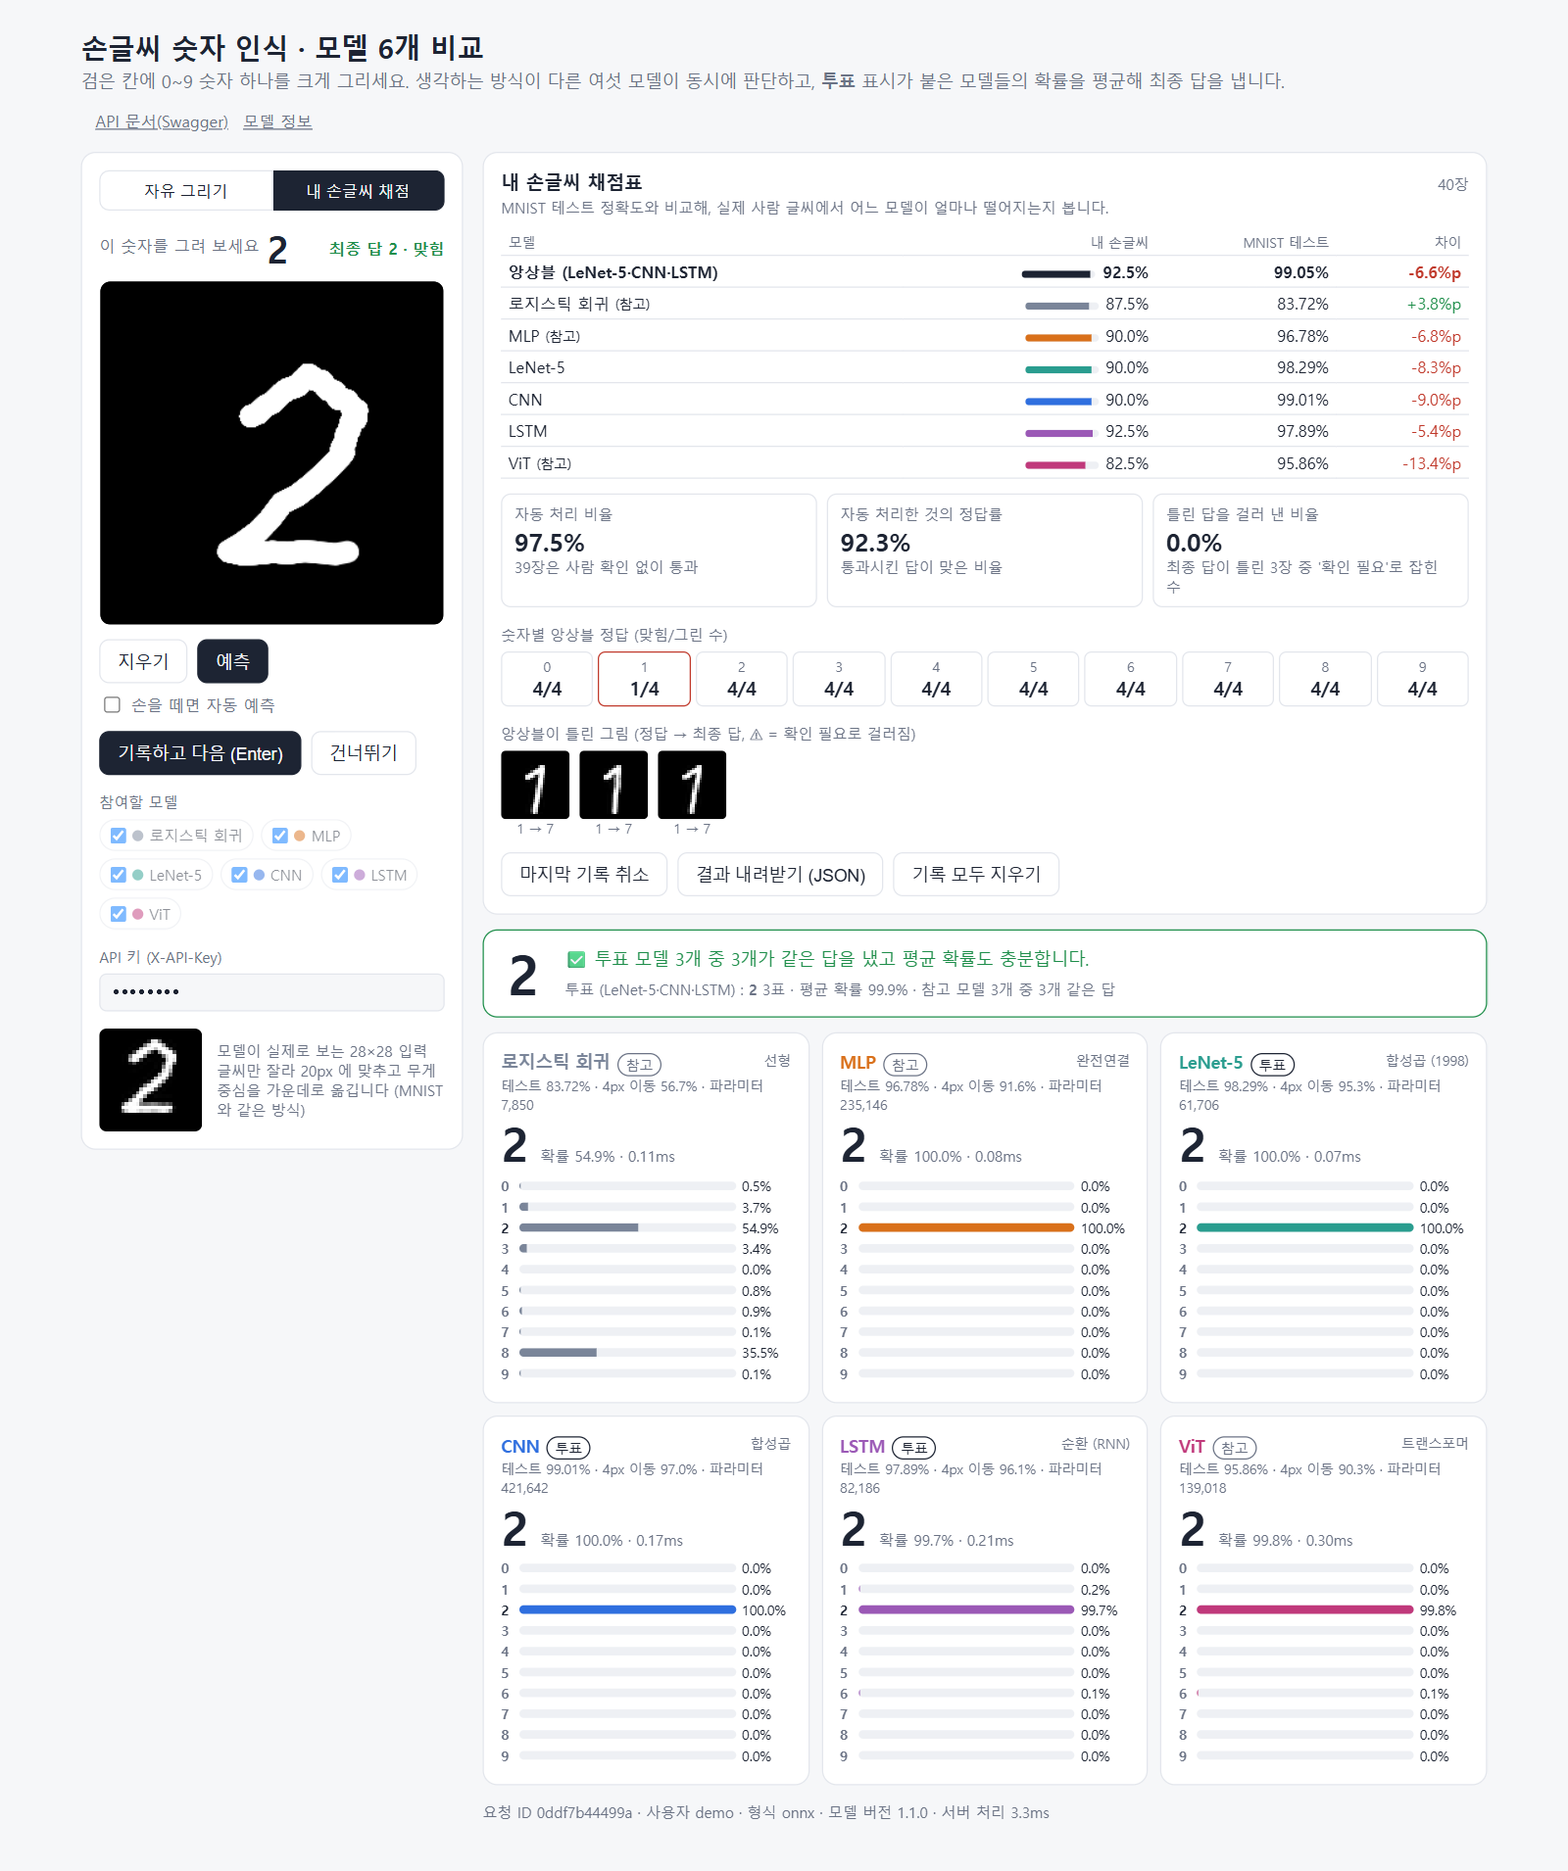
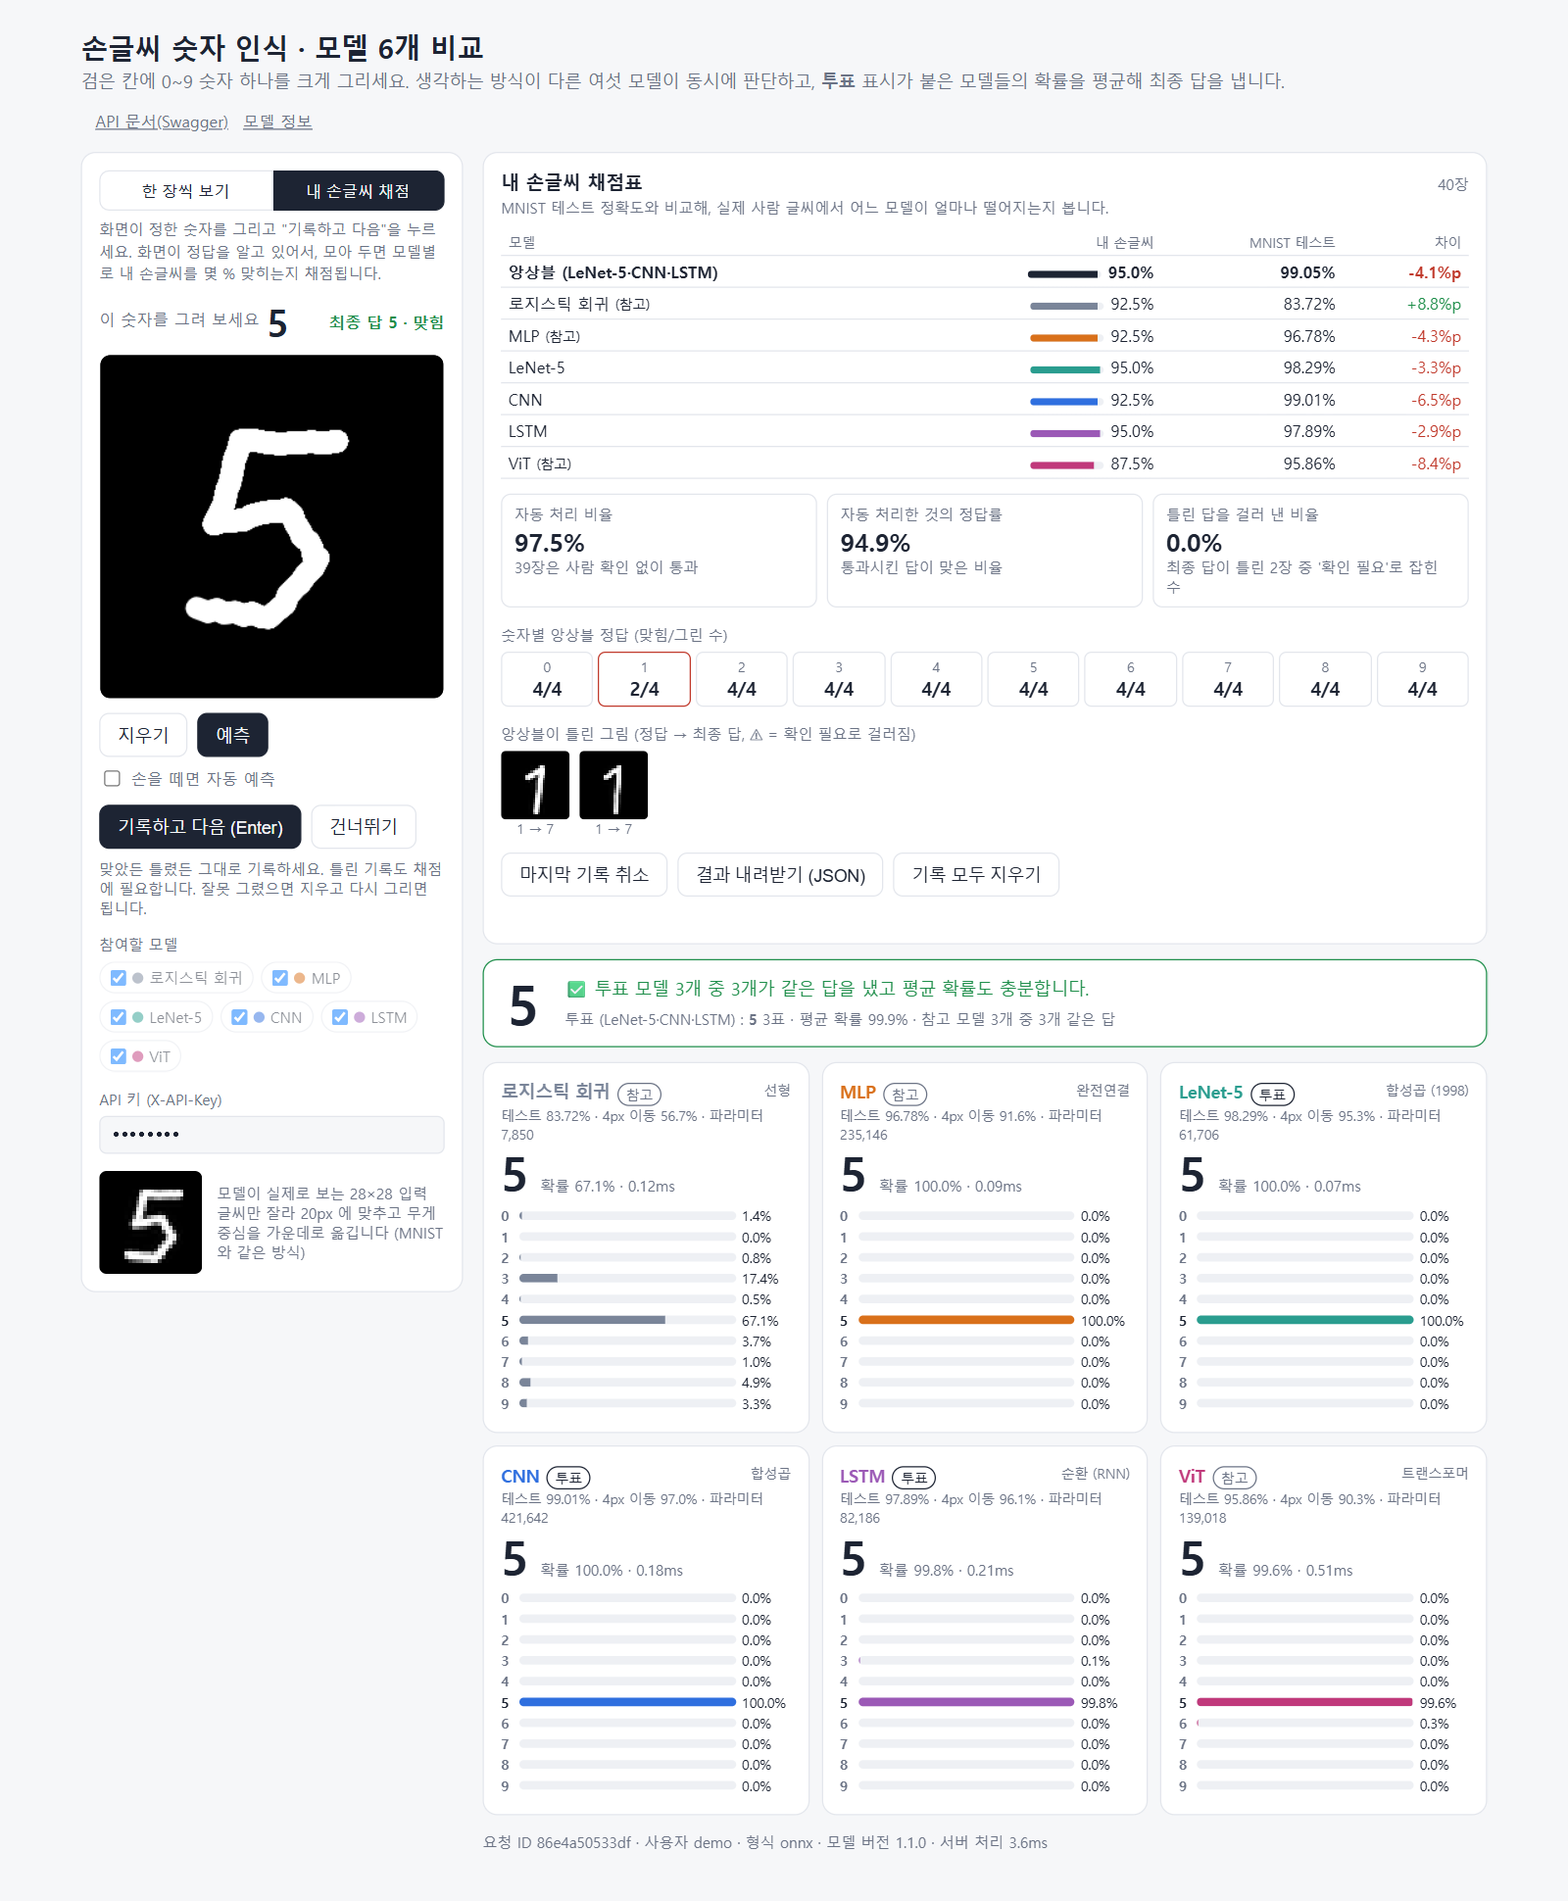
Serving02: 그림판 모드 표시 오류 수정, 채점표 버튼 개선
- 채점 모드 요소가 '한 장씩 보기'에도 보이던 문제 수정 (display:flex 가 hidden 을 덮어씀)
- 모드 이름을 '한 장씩 보기 / 내 손글씨 채점'으로 바꾸고 모드별 설명 추가
- 채점표 버튼 : 기록이 없으면 비활성화, 동작 결과 메시지 표시
- 모두 지우기는 confirm() 대신 두 번 누르기 (내장 브라우저에서도 동작)
- 내려받기 링크를 문서에 붙여 클릭하고 URL 해제를 늦춤

diff --git a/Serving/Serving02/app/static/index.html b/Serving/Serving02/app/static/index.html
@@ -60,7 +60,13 @@
   .bar b { color:var(--muted); font-weight:600; } .bar.top b { color:var(--ink); }
   footer { margin-top:14px; font-size:12px; color:var(--muted); }
   /* 채점 모드 */
-  .modes { display:flex; margin-bottom:10px; }
+  [hidden] { display:none !important; }   /* .row·.target 의 display:flex 가 hidden 을 덮어쓰지 않게 */
+  .modes { display:flex; margin-bottom:6px; }
+  .mode-desc { font-size:12px; color:var(--muted); margin:0 0 10px; line-height:1.5; }
+  .hint { font-size:12px; color:var(--muted); }
+  .sc-msg { font-size:12px; margin-top:8px; min-height:16px; color:var(--muted); }
+  .sc-msg.ok { color:var(--ok); } .sc-msg.warn { color:var(--warn); }
+  button.danger { border-color:var(--err); color:var(--err); }
   .modes button { flex:1; border-radius:0; font-size:13px; padding:7px 8px; }
   .modes button:first-child { border-radius:8px 0 0 8px; } .modes button:last-child { border-radius:0 8px 8px 0; border-left:0; }
   .modes button.on { background:var(--ink); color:var(--bg); border-color:var(--ink); }
@@ -106,7 +112,8 @@
   </header>
   <div class="grid">
     <section class="card">
-      <div class="modes" role="tablist"><button id="m-free" class="on" role="tab">자유 그리기</button><button id="m-score" role="tab">내 손글씨 채점</button></div>
+      <div class="modes" role="tablist"><button id="m-free" class="on" role="tab">한 장씩 보기</button><button id="m-score" role="tab">내 손글씨 채점</button></div>
+      <p class="mode-desc" id="mode-desc"></p>
       <div class="target" id="target" hidden><span>이 숫자를 그려 보세요<b id="tdigit">–</b></span><span class="hit" id="thit"></span></div>
       <canvas id="pad" width="280" height="280" aria-label="숫자를 그리는 칸"></canvas>
       <div class="row">
@@ -117,6 +124,7 @@
       <div class="row" id="score-ctrl" hidden>
         <button id="rec" class="primary" disabled>기록하고 다음 (Enter)</button>
         <button id="skip">건너뛰기</button>
+        <span class="hint" id="rec-hint">숫자를 그리면 예측 결과가 나온 뒤 기록할 수 있습니다.</span>
       </div>
       <div class="section-title">참여할 모델</div>
       <div class="chips" id="chips"></div>
@@ -135,6 +143,7 @@
           <button id="sc-export">결과 내려받기 (JSON)</button>
           <button id="sc-reset">기록 모두 지우기</button>
         </div>
+        <div class="sc-msg" id="sc-msg" role="status"></div>
       </div>
       <div class="verdict" id="verdict"><div class="final" id="final">–</div><div class="msg" id="vmsg">숫자를 그리면 결과가 여기에 나옵니다.</div><div class="votes" id="votes">&nbsp;</div></div>
       <div class="models" id="models"></div>
@@ -147,13 +156,17 @@ const $ = id => document.getElementById(id);
 const pad = $('pad'), ctx = pad.getContext('2d');
 let MODELS = [], INFO = {}, MEMBERS = [], ENS = null, drawing = false, dirty = false, busy = false, cfg = { review_threshold: 0.7, min_agreement: 0.66 };
 let MODE = 'free', target = null, bag = [], last = null, REC = [];   // 채점 모드 상태
+const REC_IDLE = '숫자를 그리면 예측 결과가 나온 뒤 기록할 수 있습니다.';
+const MODE_DESC = {
+  free:  '숫자(0~9)를 아무거나 하나 그리면 여섯 모델이 각각 어떻게 판단했는지 자세히 보여 줍니다. 정답을 모르므로 기록은 남지 않습니다.',
+  score: '화면이 정한 숫자를 그리고 "기록하고 다음"을 누르세요. 화면이 정답을 알고 있어서, 모아 두면 모델별로 내 손글씨를 몇 % 맞히는지 채점됩니다.' };
 
 function resetPad(){ ctx.fillStyle = '#000'; ctx.fillRect(0, 0, pad.width, pad.height);
   ctx.lineCap = 'round'; ctx.lineJoin = 'round'; ctx.strokeStyle = '#fff'; ctx.lineWidth = 18; }
 resetPad();
 function pos(e){ const r = pad.getBoundingClientRect(); return [(e.clientX - r.left) * pad.width / r.width, (e.clientY - r.top) * pad.height / r.height]; }
 pad.addEventListener('pointerdown', e => { drawing = true; dirty = true; pad.setPointerCapture(e.pointerId);
-  if (MODE === 'score') { last = null; $('rec').disabled = true; $('thit').textContent = ''; }   // 고쳐 그리는 중엔 이전 결과를 기록하지 않음
+  if (MODE === 'score') { last = null; $('rec').disabled = true; $('thit').textContent = ''; $('rec-hint').textContent = REC_IDLE; }   // 고쳐 그리는 중엔 이전 결과를 기록하지 않음
   const [x, y] = pos(e); ctx.beginPath(); ctx.moveTo(x, y); ctx.lineTo(x + 0.1, y); ctx.stroke(); });
 pad.addEventListener('pointermove', e => { if (!drawing) return; const [x, y] = pos(e); ctx.lineTo(x, y); ctx.stroke(); });
 ['pointerup', 'pointercancel'].forEach(t => pad.addEventListener(t, () => { if (!drawing) return; drawing = false; if ($('auto').checked) predict(); }));
@@ -176,7 +189,7 @@ function clearCard(id){ $('pred-' + id).textContent = '–'; $('conf-' + id).inn
   for (let i = 0; i < 10; i++) { $(`f-${id}-${i}`).style.width = '0'; $(`p-${id}-${i}`).textContent = '0.0%'; $(`row-${id}-${i}`).classList.remove('top'); } }
 function clearAll(){ resetPad(); dirty = false; $('prev').hidden = true; $('ph').hidden = false; MODELS.forEach(clearCard);
   setVerdict('', '–', '숫자를 그리면 결과가 여기에 나옵니다.'); $('foot').textContent = '';
-  last = null; $('rec').disabled = true; $('thit').textContent = ''; }
+  last = null; $('rec').disabled = true; $('thit').textContent = ''; $('rec-hint').textContent = REC_IDLE; }
 $('clear').onclick = clearAll;
 $('go').onclick = predict;
 $('apikey').addEventListener('change', () => { try { localStorage.setItem('mnist_api_key', $('apikey').value); } catch (e) {} });
@@ -213,6 +226,7 @@ async function predict(){
     else setVerdict('warn', e.pred, `⚠ 평균 확률이 ${(cfg.review_threshold * 100).toFixed(0)}% 미만입니다. 사람이 확인할 대상입니다.`, votes);
     $('foot').textContent = `요청 ID ${d.request_id} · 사용자 ${d.user} · 형식 ${d.backend} · 모델 버전 ${d.model_version} · 서버 처리 ${r.headers.get('X-Process-Time-ms')}ms`;
     if (MODE === 'score') { last = d; $('rec').disabled = false;
+      $('rec-hint').textContent = '맞았든 틀렸든 그대로 기록하세요. 틀린 기록도 채점에 필요합니다. 잘못 그렸으면 지우고 다시 그리면 됩니다.';
       const hit = e.pred === target; $('thit').className = 'hit ' + (hit ? 'ok' : 'no');
       $('thit').textContent = `최종 답 ${e.pred} · ${hit ? '맞힘' : '틀림'}${d.needs_review ? ' · 확인 필요' : ''}`; }
   } catch (err) { setVerdict('err', '!', '🔌 서버에 연결할 수 없습니다.'); }
@@ -225,6 +239,7 @@ async function predict(){
   try { const m = await (await fetch('/v1/models')).json(); MODELS = m.enabled; INFO = m.models; MEMBERS = m.ensemble_members || []; ENS = m.ensemble; buildModels(); }
   catch (e) { setVerdict('err', '!', '🔌 모델 목록을 가져오지 못했습니다.'); }
   REC = loadRecords();
+  $('mode-desc').textContent = MODE_DESC.free;
   if (location.hash === '#score') setMode('score');
 })();
 
@@ -236,7 +251,7 @@ function loadRecords(){ try { return JSON.parse(localStorage.getItem(STORE)) || 
 function saveRecords(){ try { localStorage.setItem(STORE, JSON.stringify(REC)); } catch (e) {} }
 
 function setMode(mode){
-  MODE = mode; const s = mode === 'score';
+  MODE = mode; const s = mode === 'score'; $('mode-desc').textContent = MODE_DESC[mode];
   $('m-free').classList.toggle('on', !s); $('m-score').classList.toggle('on', s);
   $('target').hidden = $('score-ctrl').hidden = $('scorecard').hidden = !s;
   $('chips').classList.toggle('locked', s);
@@ -262,12 +277,24 @@ function record(){
 $('rec').onclick = record;
 $('skip').onclick = () => { clearAll(); nextTarget(); };
 document.addEventListener('keydown', e => { if (e.key === 'Enter' && MODE === 'score' && !$('rec').disabled) { e.preventDefault(); record(); } });
-$('sc-undo').onclick = () => { if (REC.length) { REC.pop(); saveRecords(); renderScore(); } };
-$('sc-reset').onclick = () => { if (REC.length && confirm(`기록 ${REC.length}장을 모두 지울까요?`)) { REC = []; saveRecords(); renderScore(); } };
+function scMsg(text, cls = ''){ $('sc-msg').className = 'sc-msg ' + cls; $('sc-msg').textContent = text; }
+$('sc-undo').onclick = () => {
+  if (!REC.length) return scMsg('취소할 기록이 없습니다.', 'warn');
+  const r = REC.pop(); saveRecords(); renderScore(); scMsg(`마지막 기록(정답 ${r.label} → 최종 답 ${r.ensemble})을 취소했습니다. 남은 기록 ${REC.length}장.`, 'ok'); };
+// 브라우저 확인 창(confirm)은 VS Code 내장 브라우저 등에서 막히므로, 같은 버튼을 한 번 더 누르게 합니다
+let resetArmed = null;
+$('sc-reset').onclick = () => {
+  if (!REC.length) return scMsg('지울 기록이 없습니다.', 'warn');
+  if (!resetArmed) {
+    $('sc-reset').textContent = `정말 ${REC.length}장을 지울까요? 한 번 더 누르세요`; $('sc-reset').classList.add('danger');
+    resetArmed = setTimeout(disarmReset, 4000); return; }
+  disarmReset(); const n = REC.length; REC = []; saveRecords(); renderScore(); scMsg(`기록 ${n}장을 모두 지웠습니다.`, 'ok'); };
+function disarmReset(){ clearTimeout(resetArmed); resetArmed = null; $('sc-reset').textContent = '기록 모두 지우기'; $('sc-reset').classList.remove('danger'); }
 
 function renderScore(){
   const n = REC.length;
   $('sc-n').textContent = n ? `${n}장` : '';
+  for (const id of ['sc-undo', 'sc-export', 'sc-reset']) { $(id).disabled = !n; $(id).title = n ? '' : '아직 기록이 없습니다. 먼저 숫자를 그리고 "기록하고 다음"을 누르세요.'; }
   if (!n) { $('sc-note').textContent = '왼쪽에 나온 숫자를 그리고 "기록하고 다음"을 누르세요. 10장마다 0~9 가 한 번씩 나옵니다. 기록은 이 브라우저에만 저장됩니다.';
     $('sc-body').innerHTML = ''; return; }
   $('sc-note').textContent = n < 30 ? `아직 ${n}장이라 한 장마다 정확도가 ${(100 / n).toFixed(1)}%p 씩 움직입니다. 30장 이상 모아야 모델 간 비교가 의미 있습니다.`
@@ -314,13 +341,16 @@ async function toPixels(src){
   return px;
 }
 $('sc-export').onclick = async () => {
-  if (!REC.length) return;
+  if (!REC.length) return scMsg('내려받을 기록이 없습니다.', 'warn');
   const records = [];
   for (const r of REC) { const { img, ...rest } = r; records.push({ ...rest, pixels: await toPixels(img) }); }
   const out = { format: 'mnist-my-digits/1', exported_at: new Date().toISOString(), ensemble_members: MEMBERS, n: records.length, records };
   const a = document.createElement('a');
   a.href = URL.createObjectURL(new Blob([JSON.stringify(out)], { type: 'application/json' }));
-  a.download = `my_digits_${new Date().toISOString().slice(0, 10)}.json`; a.click(); URL.revokeObjectURL(a.href);
+  a.download = `my_digits_${new Date().toISOString().slice(0, 10)}.json`;
+  document.body.appendChild(a); a.click(); a.remove();                 // 문서에 붙여야 Firefox 등에서도 동작
+  setTimeout(() => URL.revokeObjectURL(a.href), 10000);               // 바로 해제하면 내려받기가 끊기는 브라우저가 있음
+  scMsg(`${a.download} (${records.length}장) 을 내려받았습니다. 파일이 안 보이면 VS Code 내장 브라우저 대신 Chrome·Edge 에서 열어 주세요.`, 'ok');
 };
 </script>
 </body>

diff --git a/Serving/Serving02/tests/test_my_digits.py b/Serving/Serving02/tests/test_my_digits.py
@@ -24,8 +24,10 @@ def _export(tmp_path, n=40):
 
 def test_ui_has_score_mode(client):
     html = client.get("/").text
-    for el in ('id="m-score"', 'id="rec"', 'id="sc-export"', "mnist-my-digits/1"):
+    for el in ('id="m-score"', 'id="rec"', 'id="sc-export"', "mnist-my-digits/1", 'id="mode-desc"'):
         assert el in html
+    # .row·.target 의 display:flex 가 hidden 속성을 덮어써 채점용 버튼이 '한 장씩 보기'에도 보이던 문제
+    assert "[hidden] { display:none !important; }" in html
 
 
 def test_load_and_accuracy(tmp_path):

diff --git a/Serving/Serving02/RUN_GUIDE.md b/Serving/Serving02/RUN_GUIDE.md
@@ -73,10 +73,20 @@ ENABLED_MODELS=lenet,cnn ENSEMBLE_MODELS=lenet,cnn uvicorn app.main:app --port 8
 - 그림판의 '참여할 모델' 체크박스와 대시보드 사이드바가 이 기능을 씁니다.
 
 ### 1-2. 내 손글씨로 모델 채점하기
+그림판에는 모드가 둘 있습니다. 둘 다 숫자(0~9)를 그립니다.
+
+| | 한 장씩 보기 | 내 손글씨 채점 |
+|---|---|---|
+| 무엇을 그리나 | 원하는 숫자 아무거나 | 화면이 정해 준 숫자 |
+| 결과 | 그 한 장에서 모델들이 어떻게 판단했는지 자세히 | 기록이 쌓여 모델별 정확도로 채점 |
+| 모델 선택 | 끄고 켤 수 있음 | 공정한 비교를 위해 6개 고정 |
+
 1. 그림판 위쪽의 **내 손글씨 채점** 을 누릅니다 (또는 `http://localhost:8000/#score`).
 2. 화면에 나온 숫자를 그리고 **기록하고 다음** (Enter) 을 누릅니다. 마음에 안 들게 그렸으면 **지우기**, 넘기려면 **건너뛰기**를 누릅니다.
 3. 오른쪽 채점표에 모델별 정확도와 MNIST 정확도의 차이, 자동 처리·정답·걸러 낸 비율이 쌓입니다. **30장 이상** 모으는 것을 권합니다(0~9 각 3장).
 4. **결과 내려받기** 로 JSON 을 저장합니다. 기록은 이 브라우저에만 남고 서버에는 저장되지 않습니다.
+   - VS Code 안의 브라우저에서는 내려받기가 막힐 수 있습니다. Chrome·Edge 에서 여세요.
+   - 기록이 하나도 없으면 아래 세 버튼(취소·내려받기·모두 지우기)은 꺼져 있습니다. 모두 지우기는 실수를 막으려고 두 번 눌러야 합니다.
 
 모델을 다시 학습하거나 바꾼 뒤에는 같은 손글씨로 전후를 비교합니다.
 ```bash

diff --git a/Serving/Serving02/README.md b/Serving/Serving02/README.md
@@ -66,7 +66,7 @@
 *채점 모드 화면. 이 캡처는 기능 확인용으로 자동 입력한 선 40장의 결과입니다. 사람 손글씨 결과가 아닙니다.*
 
 이 예시에서도 확인할 점이 있었습니다.
-- 깃발 달린 1 세 장을 모델들이 **확신을 갖고** 7 로 읽었습니다.
+- 깃발 달린 1 두 장을 모델들이 **확신을 갖고** 7 로 읽었습니다.
 - 그래서 '확인 필요'에 하나도 걸리지 않았습니다. 이 규칙은 의견이 갈리거나 망설이는 경우만 잡습니다. **확신에 찬 오답**은 잡지 못한다는 한계가 수치로 드러났습니다.
 
 ## 결과
@@ -148,7 +148,7 @@ curl -X POST "http://localhost:8000/v1/predict/file?models=cnn&models=lstm" \
 │   ├── main.py            엔드포인트 · lifespan · 스레드풀 · SSE
 │   ├── inference.py       ONNX / TorchScript / PyTorch 백엔드 · 앙상블
 │   ├── auth.py · rate_limit.py · schemas.py · preprocess.py · middleware.py · errors.py
-│   └── static/index.html  그림판 (자유 그리기 · 내 손글씨 채점)
+│   └── static/index.html  그림판 (한 장씩 보기 · 내 손글씨 채점)
 ├── frontend/          Streamlit 대시보드 (API가 없으면 내장 모드로 직접 띄움)
 ├── tests/             pytest 34개
 ├── scripts/           내 손글씨 다시 채점 · 부하 테스트 · API 키 생성 · Hugging Face 배포
